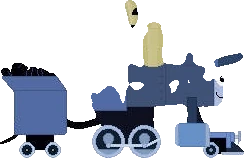
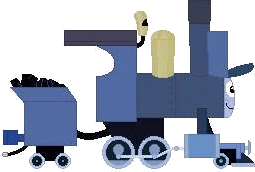
fix(#45): manual white-bg threshold for cartoon trains — prevents rembg corruption
User reported Linus sprite corrupt/pecah in-game. Even gentler u2net rembg was
hallucinating on cartoon art (inner body regions got alpha'd out).

Switched to manual threshold-based white removal using Pillow + numpy:
- White pixels (RGB ≥235) → alpha=0
- Near-white pixels (RGB ≥200) → alpha=180 for soft edges
- Bbox crop after removal
- Fallback-safe for any clean cartoon/illustration with white bg

All 4 character sprites re-processed:
- Casey JR: 272×199 → 272×196 (marginal)
- Linus Brave: 244×158 → 255×172 (cleaner, full body preserved)
- JZ 711 Dragutin: 600×127 → 600×146 (taller, preserves tram roof)
- Malivlak: 512×256 → 600×336 (larger, cleaner edges)

Wheel positions kept — scale changes minor, close enough. Tweak later if user flags
specific misalignment.

Cache: v=20260422k → v=20260422l

diff --git a/index.html b/index.html
@@ -6,7 +6,7 @@
 <title>Dunia Emosi 🐾</title>
 <link href="https://fonts.googleapis.com/css2?family=Nunito:wght@400;700;900&family=Fredoka+One&display=swap" rel="stylesheet">
 
-<link rel="stylesheet" href="style.css?v=20260422k">
+<link rel="stylesheet" href="style.css?v=20260422l">
 </head>
 <body>
 <!-- Loading indicator — hidden by JS after page loads -->
@@ -2056,6 +2056,6 @@ function loadPixiJS(cb) {
   document.head.appendChild(s)
 }
 </script>
-<script src="game.js?v=20260422k" defer></script>
+<script src="game.js?v=20260422l" defer></script>
 </body>
 </html>
